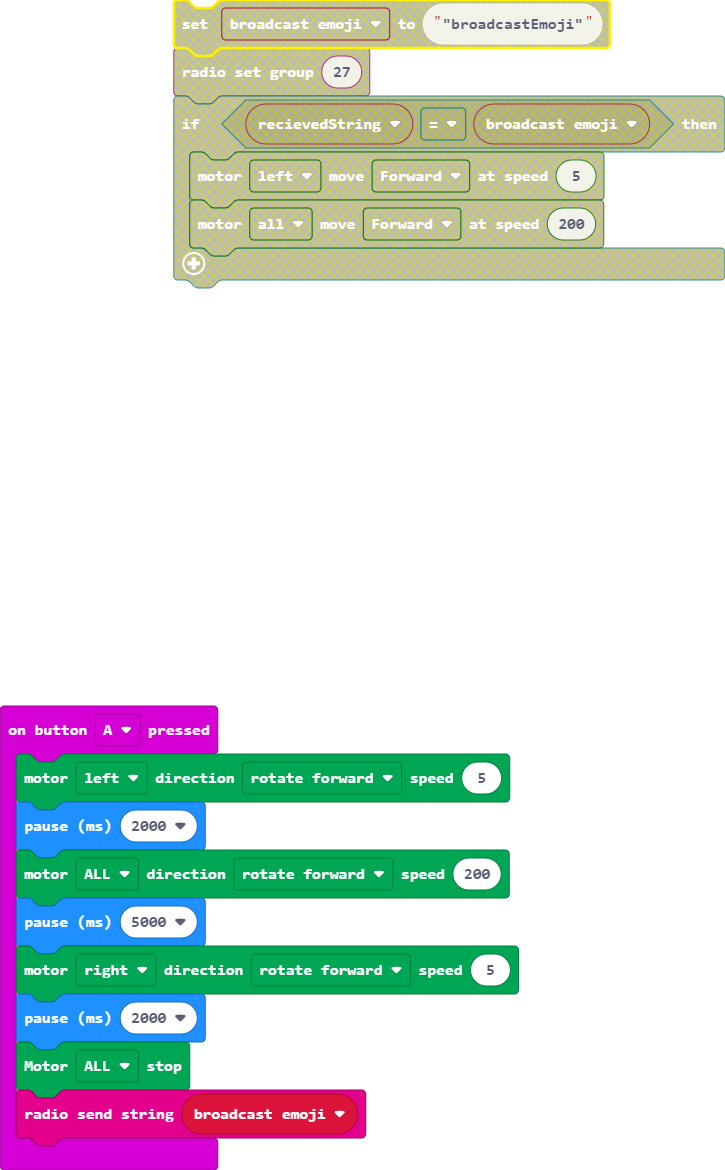
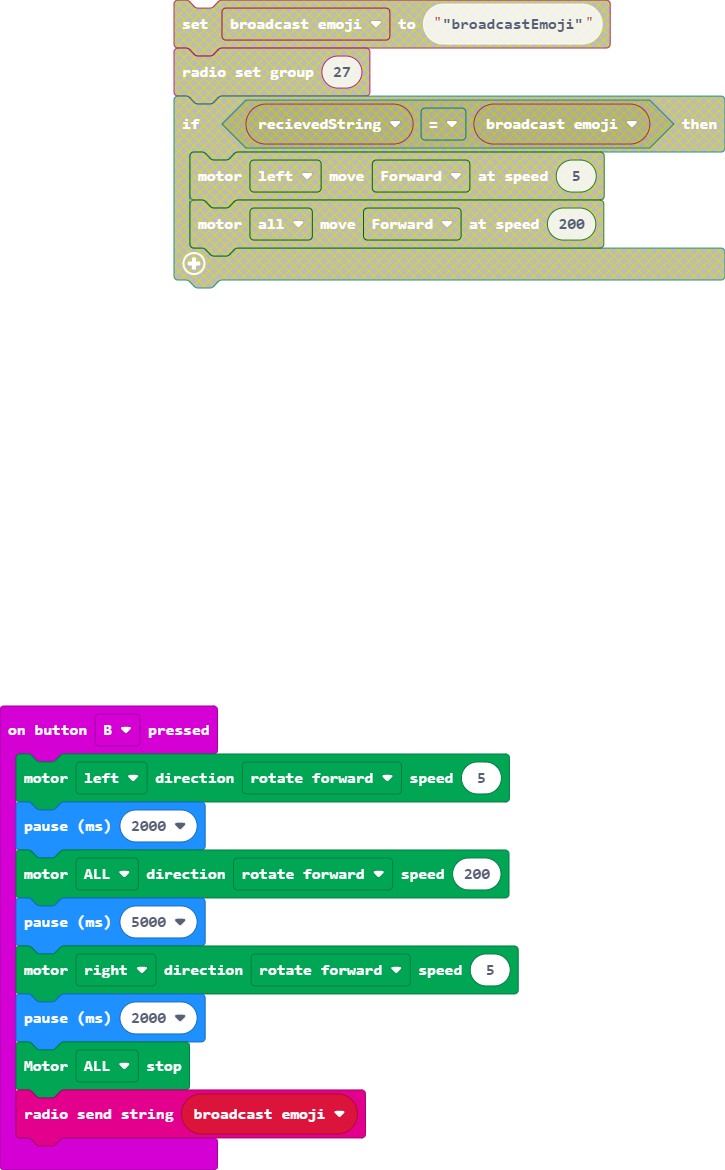
Update main.blocks, main.ts

diff --git a/main.ts b/main.ts
@@ -1,4 +1,4 @@
-input.onButtonPressed(Button.A, function () {
+input.onButtonPressed(Button.B, function () {
     let broadcast_emoji = 0
     DFRobotMaqueenPlus.mototRun(Motors.M1, Dir.CW, 5)
     basic.pause(2000)
